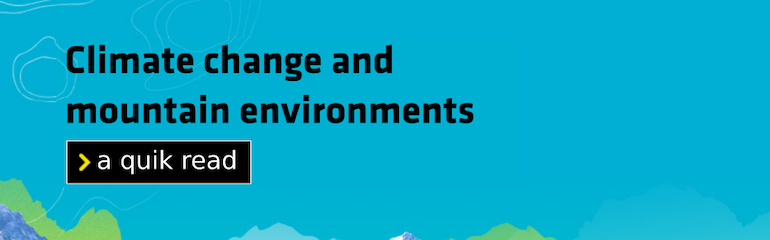
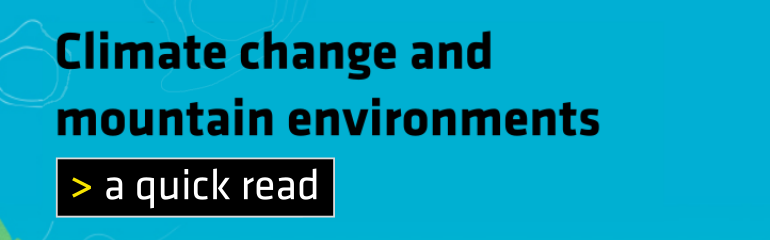
Up english home page

diff --git a/sites/all/themes/crea_bootstrap/css/layout.css b/sites/all/themes/crea_bootstrap/css/layout.css
@@ -1321,6 +1321,13 @@ FIN PAGE ACCUEIL 2019
     background-size: cover;
     background-position: center;
   }
+  .bandeau-climat-en{
+    background: url("../images/BANDEAU-HOMEPAGE-EN-TXT-small.png") no-repeat;
+    width:100%;
+    height:240px;
+    background-size: cover;
+    background-position: center;
+  }
   .front .atlas_compteur_obs {
     margin-bottom: 20px;
   }
